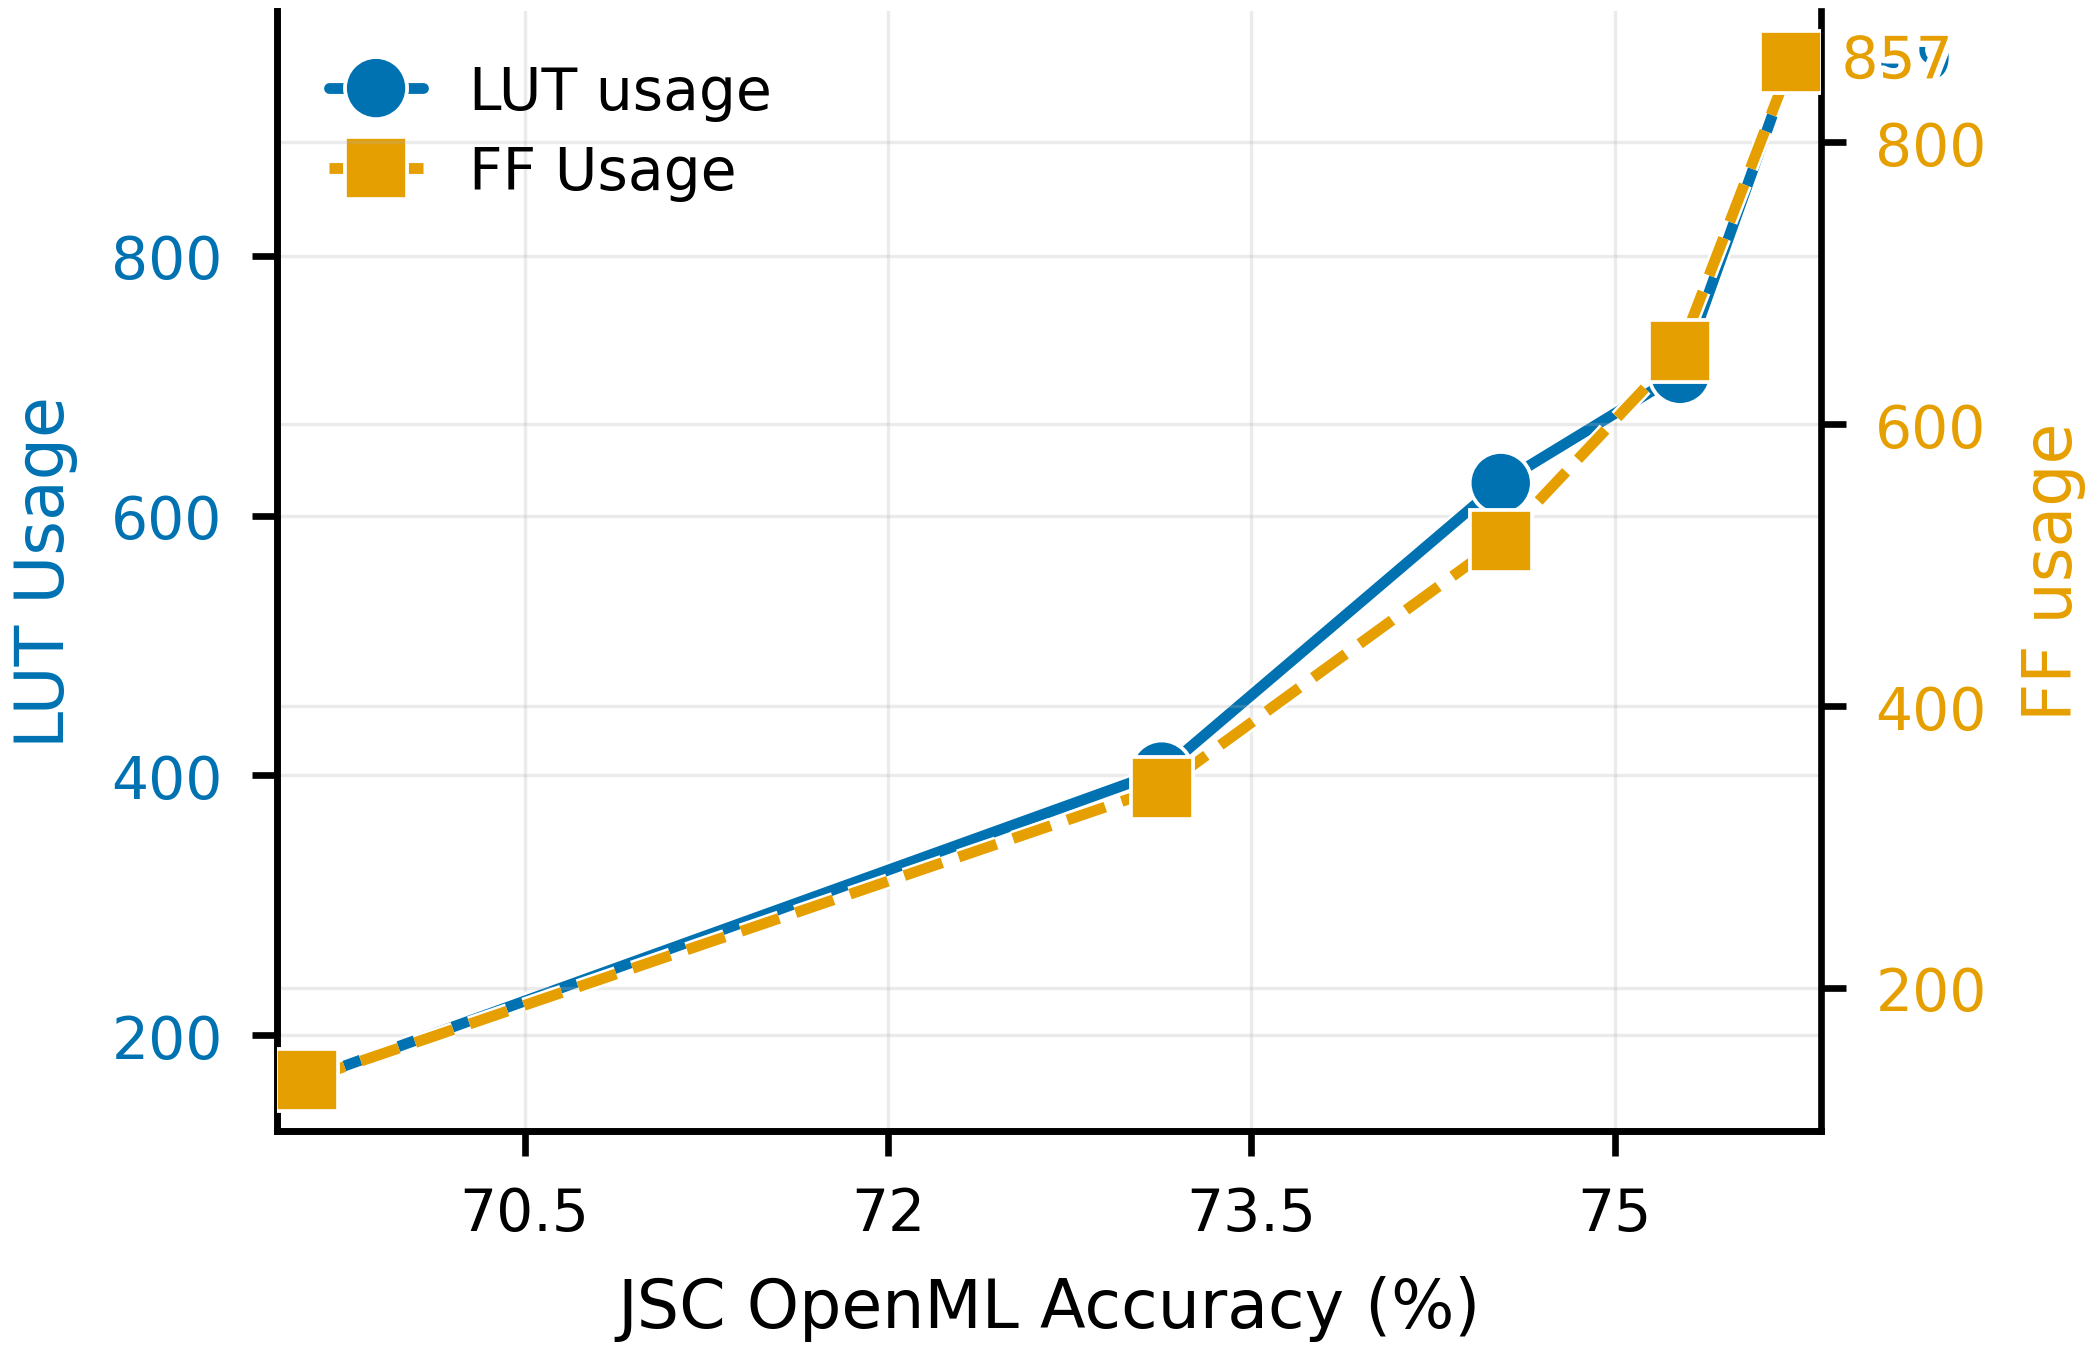
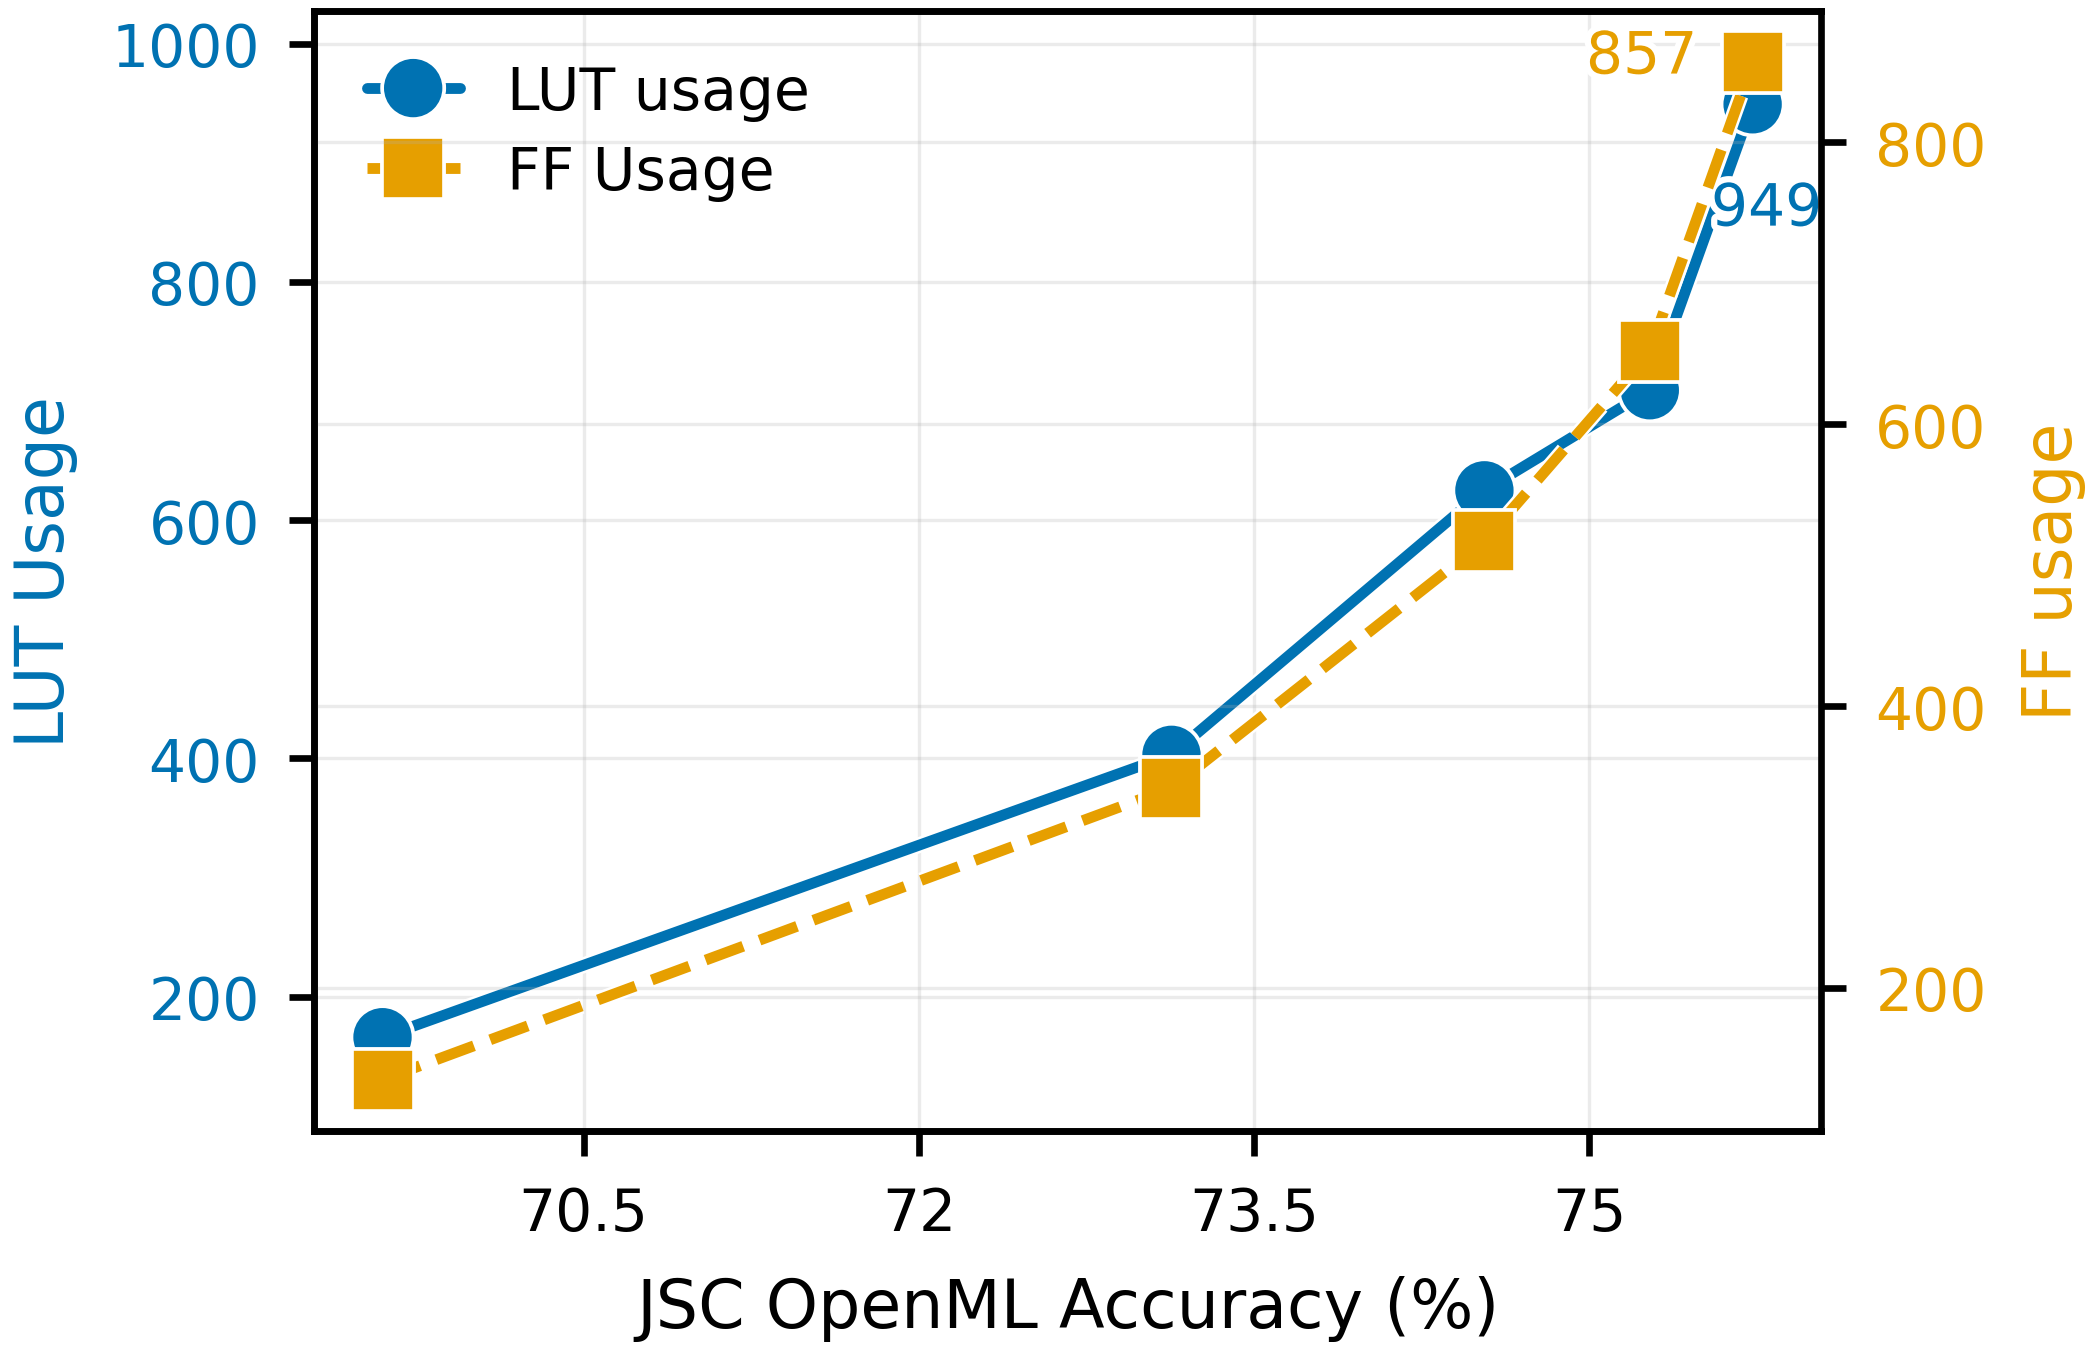
back up codes

diff --git a/benchmarks/JSC_OpenML/plot_ablation.py b/benchmarks/JSC_OpenML/plot_ablation.py
@@ -52,7 +52,7 @@ def setup_paper_style(single_column: bool = True):
             "lines.solid_capstyle": "round",
             "lines.solid_joinstyle": "round",
             "axes.linewidth": 0.8,
-            "axes.spines.top": False,
+            "axes.spines.top": True,
             "axes.spines.right": False,  # primary axes; we'll enable right spine only on twin
             "axes.grid": True,
             "axes.grid.which": "major",
@@ -124,25 +124,26 @@ def plot_accuracy_vs_lut_ff(
     ax1.yaxis.set_major_locator(MaxNLocator(5))
     ax2.yaxis.set_major_locator(MaxNLocator(5))
     ax1.grid(True, which="minor", linewidth=0.3, alpha=0.15)
-    ax1.margins(x=0.02, y=0.05)
+    # Add margins so lines don’t overlap with axes
+    ax1.margins(x=0.05, y=0.1)   # was (0.02, 0.05)
 
     # Annotate last values
     if len(accuracy):
         ax1.annotate(
             f"{lut[-1]:.0f}",
             xy=(accuracy[-1], lut[-1]),
-            xytext=(6, 0),
+            xytext=(-5, -16),   # <-- added vertical offset
             textcoords="offset points",
-            va="center", ha="left",
+            va="bottom", ha="left",
             fontsize=7, color=lut_color,
             path_effects=[pe.Stroke(linewidth=1.5, foreground="white"), pe.Normal()],
         )
         ax2.annotate(
             f"{ff[-1]:.0f}",
             xy=(accuracy[-1], ff[-1]),
-            xytext=(6, 0),
+            xytext=(-20, 4),   # <-- shifted down instead of up
             textcoords="offset points",
-            va="center", ha="left",
+            va="top", ha="left",
             fontsize=7, color=ff_color,
             path_effects=[pe.Stroke(linewidth=1.5, foreground="white"), pe.Normal()],
         )
